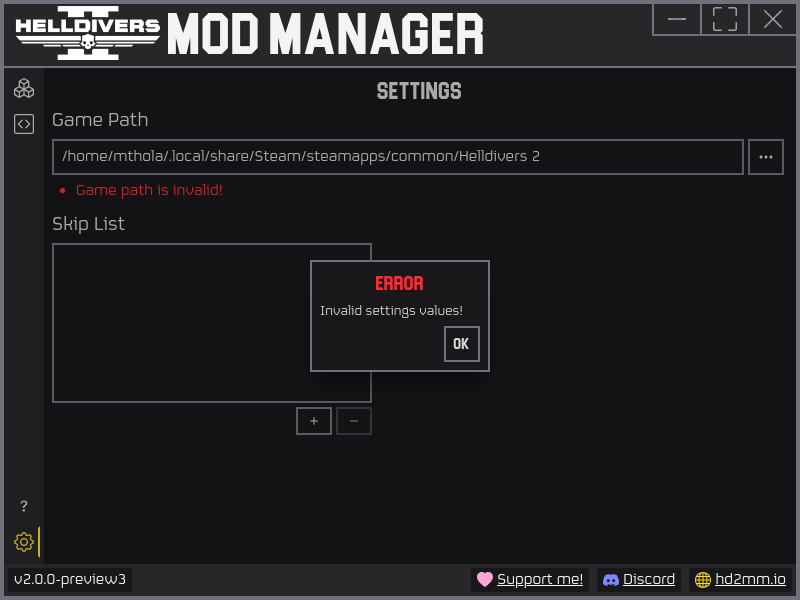
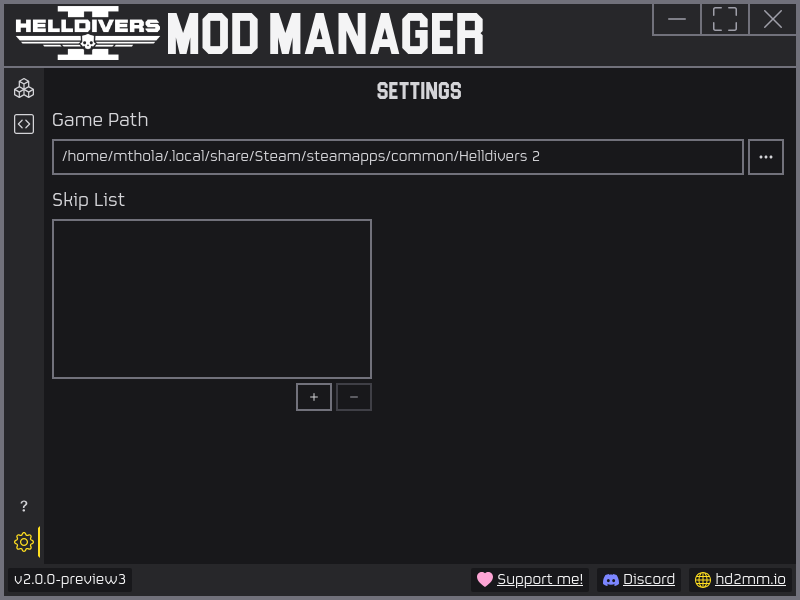
docs: record game-path fix, host install, and refresh evidence
README documents the resolved game-path validation, host install via scripts/install.sh, and that no distrobox is needed to run. Refresh test and screenshot evidence (settings page no longer shows the error).

diff --git a/README.md b/README.md
@@ -14,7 +14,7 @@ validation rather than a rewrite.
 ## Code status
 
 Last full run: 2026-06-19. Produced by the local suite in [`docs/TESTING.md`](docs/TESTING.md).
-Raw artifacts: [`docs/evidence/`](docs/evidence/). Numbers are read from the run, not asserted.
+Raw artifacts: [`docs/evidence/`](docs/evidence/).
 
 | Check | Result |
 | --- | --- |
@@ -32,14 +32,14 @@ Raw artifacts: [`docs/evidence/`](docs/evidence/). Numbers are read from the run
 | Frontend build | ✅ Clean |
 | App launches (E2E) | ✅ |
 
-The gate is **red on purpose**, not hidden. It fails one condition: coverage on new
-code (59.8%) is below the required 80%. Security and reliability are clean (0
-vulnerabilities, 0 bugs, A ratings). Raising coverage is open work — see
+The gate is red. It fails one condition: coverage on new code (59.8%) is below the
+required 80%. Security and reliability are clean: 0 vulnerabilities, 0 bugs, A
+ratings. Raising coverage is open work — see
 [Validation and DevSecOps](#validation-and-devsecops).
 
 ### SonarQube dashboard
 
-Captured from the running SonarQube server, not a badge.
+Captured from the running SonarQube server.
 
 ![SonarQube dashboard: quality gate Failed on coverage, 0 bugs, 0 vulnerabilities, security A](docs/evidence/sonar-dashboard.png)
 
@@ -68,9 +68,10 @@ launches on Linux; broader validation is in progress (see
 
 Testing process and evidence: [`docs/TESTING.md`](docs/TESTING.md).
 
-Known issue: the Settings page reports "Game path is invalid!" for a valid
-install. The Rust-side check passes; the frontend `fs`/`path` call throws. A
-Tauri capability/permission gap is the likely cause. Under investigation.
+Fixed: the Settings page used to report "Game path is invalid!" for a valid
+install, because the webview's `fs`/`path` calls threw under the capability
+scope. Path validation now runs in the Rust backend (`validate_game_path`) and
+is covered by tests, including a path-with-spaces case.
 
 ## Development environment
 
@@ -114,11 +115,22 @@ Artifacts are written to `src-tauri/target/release/bundle/`.
 
 ## Running
 
-The AppImage is self-contained (bundles GTK/WebKit):
+A distrobox is only needed to build. The AppImage runs on the host directly: it
+bundles GTK/WebKit and stores its data under `~/.local/share/hd2mm`. Verified on
+Bazzite (host glibc 2.43, FUSE present).
+
+Install it to the application menu:
 
 ```bash
-./hd2mm_*_amd64.AppImage
-# inside a container without FUSE:
+scripts/install.sh
+```
+
+This copies the AppImage to `~/.local/bin` and adds a "Helldivers 2 Mod Manager"
+menu entry. Or run it straight from the bundle:
+
+```bash
+./src-tauri/target/release/bundle/appimage/hd2mm_*_amd64.AppImage
+# no FUSE available (e.g. inside a container):
 APPIMAGE_EXTRACT_AND_RUN=1 ./hd2mm_*_amd64.AppImage
 ```
 
@@ -162,9 +174,10 @@ clean. App E2E: launched via `tauri-driver`, UI rendered, screenshot captured.
 Steam auto-detection: confirmed (path pre-filled in the screenshot). SonarQube:
 0 bugs, 0 vulnerabilities, ratings A/A/A; coverage added (10.2% overall), so the
 gate now fails on new-code coverage (59.8% < 80%). Artifacts in
-[`docs/evidence/`](docs/evidence/). Open: low coverage; 4 cognitive-complexity
-smells; frontend game-path validation error (see Known issue above); mod
-deploy/purge not yet exercised with a real mod.
+[`docs/evidence/`](docs/evidence/). Fixed this round: game-path validation moved
+to Rust (the Settings error is gone); AppImage runs on the host (writable data
+dir); WebKit black-screen on NVIDIA. Open: low coverage; 4 cognitive-complexity
+smells; mod deploy/purge not yet exercised with a real mod.
 
 ## Validation and DevSecOps
 

diff --git a/docs/TESTING.md b/docs/TESTING.md
@@ -56,16 +56,21 @@ pnpm tauri build                       # builds src-tauri/target/release/hd2mm
 Run:
 
 ```bash
-pnpm run test:e2e
+pnpm run test:e2e        # dev binary
+pnpm run test:artifact   # the packaged AppImage
 ```
 
-What it checks:
+What they check:
 
 - App launches.
 - UI renders.
 - Screenshot captured.
 
-Evidence: `docs/evidence/e2e-tests.txt`, `docs/evidence/e2e-app-window.png`.
+`test:e2e` drives the dev binary. `test:artifact` drives the packaged AppImage
+that users actually run (build it first with `scripts/build.sh`).
+
+Evidence: `docs/evidence/e2e-tests.txt`, `docs/evidence/e2e-app-window.png`,
+`docs/evidence/e2e-artifact.txt`, `docs/evidence/e2e-appimage-window.png`.
 
 ## 4. SonarQube loop
 
@@ -131,8 +136,10 @@ All artifacts live in `docs/evidence/`.
 |------|--------|
 | `rust-tests.txt` | Backend tests pass. |
 | `frontend-build.txt` | Frontend compiles. |
-| `e2e-tests.txt` | App launched via WebDriver. |
-| `e2e-app-window.png` | The running window. |
+| `e2e-tests.txt` | Dev binary launched via WebDriver. |
+| `e2e-app-window.png` | The running window (dev binary). |
+| `e2e-artifact.txt` | Packaged AppImage launched. |
+| `e2e-appimage-window.png` | The running window (AppImage). |
 | `sonar-report.txt` | Quality gate result (text). |
 | `sonar-dashboard.png` | Quality gate + ratings (SonarQube UI). |
 | `sonar-issues.png` | Open issues (SonarQube UI). |
